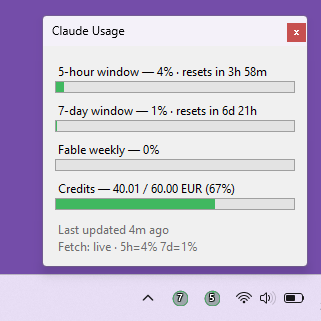
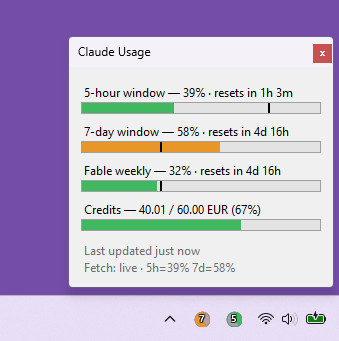
docs: refresh the popup screenshot to show the pace marker
The previous image predated the marker and its alt text quoted percentages
that no longer matched.

diff --git a/README.md b/README.md
@@ -19,9 +19,10 @@ icons, plus per-model weekly caps and paid credit spend at a glance.
 
 <br>
 
-<img src="docs/screenshot-popup.png" alt="The Claude Usage Tray popup showing the 5-hour window at 4%, the 7-day window at 1%, a Fable weekly row at 0%, and credits at 40.01 of 60.00 EUR" width="360">
+<img src="docs/screenshot-popup.png" alt="The Claude Usage Tray popup showing the 5-hour window at 39% resetting in 1h 3m, the 7-day window at 58% resetting in 4d 16h, a Fable weekly row at 32%, and credits at 40.01 of 60.00 EUR. A dark vertical marker on each usage bar shows how far the clock has moved through that limit's period." width="360">
 
-<sub>Left-click the tray icon for the full picture. Every bar is colour-coded by severity.</sub>
+<sub>Left-click the tray icon for the full picture. Every bar is colour-coded by severity, and the
+marker line shows where the clock is: fill short of it means you're burning slower than the clock.</sub>
 
 </div>
 
